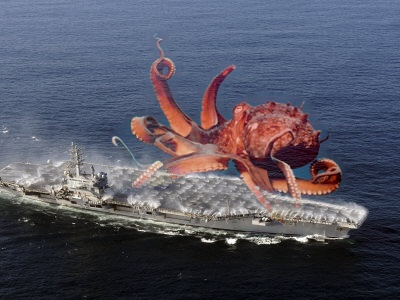
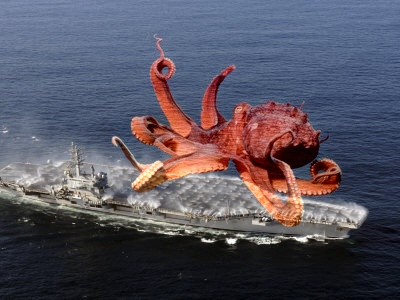
transparent working

diff --git a/project/imblend.m b/project/imblend.m
@@ -41,7 +41,26 @@ for y = 1:imh
                     boundary_t = assignIJV(e, mapping(y+1,x), -1, target(y+1,x,ch), boundary_t, ch);
                     boundary_t = assignIJV(e, mapping(y-1,x), -1, target(y-1,x,ch), boundary_t, ch);
                     if transparent
-                        b(e,ch) = 4*max(source(y,x,ch),target(y,x,ch)) - max(source(y,x+1,ch),target(y,x+1,ch)) - max(source(y,x-1,ch),target(y,x-1,ch)) - max(source(y+1,x,ch),target(y+1,x,ch)) - max(source(y-1,x,ch),target(y-1,x,ch));
+                        if abs(source(y,x,ch)-source(y,x+1,ch)) > abs(target(y,x,ch)-target(y,x+1,ch))
+                            b(e,ch) = b(e,ch) + source(y,x,ch) - source(y,x+1,ch);
+                        else
+                            b(e,ch) = b(e,ch) + target(y,x,ch) - target(y,x+1,ch);
+                        end
+                        if abs(source(y,x,ch)-source(y,x-1,ch)) > abs(target(y,x,ch)-target(y,x-1,ch))
+                            b(e,ch) = b(e,ch) + source(y,x,ch) - source(y,x-1,ch);
+                        else
+                            b(e,ch) = b(e,ch) + target(y,x,ch) - target(y,x-1,ch);
+                        end
+                        if abs(source(y,x,ch)-source(y+1,x,ch)) > abs(target(y,x,ch)-target(y+1,x,ch))
+                            b(e,ch) = b(e,ch) + source(y,x,ch) - source(y+1,x,ch);
+                        else
+                            b(e,ch) = b(e,ch) + target(y,x,ch) - target(y+1,x,ch);
+                        end
+                        if abs(source(y,x,ch)-source(y-1,x,ch)) > abs(target(y,x,ch)-target(y-1,x,ch))
+                            b(e,ch) = b(e,ch) + source(y,x,ch) - source(y-1,x,ch);
+                        else
+                            b(e,ch) = b(e,ch) + target(y,x,ch) - target(y-1,x,ch);
+                        end
                     else
                         b(e,ch) = 4*source(y,x,ch) - source(y,x+1,ch) - source(y,x-1,ch) - source(y+1,x,ch) - source(y-1,x,ch);
                     end
@@ -52,7 +71,16 @@ for y = 1:imh
                     boundary_t = assignIJV(e, mapping(y,x+1), -1, target(y,x+1,ch), boundary_t, ch);
                     boundary_t = assignIJV(e, mapping(y,x-1), -1, target(y,x-1,ch), boundary_t, ch);
                     if transparent
-                        b(e,ch) = 2*max(source(y,x,ch),target(y,x,ch)) - max(source(y,x+1,ch),target(y,x+1,ch)) - max(source(y,x-1,ch),target(y,x-1,ch));
+                        if abs(source(y,x,ch)-source(y,x+1,ch)) > abs(target(y,x,ch)-target(y,x+1,ch))
+                            b(e,ch) = b(e,ch) + source(y,x,ch) - source(y,x+1,ch);
+                        else
+                            b(e,ch) = b(e,ch) + target(y,x,ch) - target(y,x+1,ch);
+                        end
+                        if abs(source(y,x,ch)-source(y,x-1,ch)) > abs(target(y,x,ch)-target(y,x-1,ch))
+                            b(e,ch) = b(e,ch) + source(y,x,ch) - source(y,x-1,ch);
+                        else
+                            b(e,ch) = b(e,ch) + target(y,x,ch) - target(y,x-1,ch);
+                        end
                     else
                         b(e,ch) = 2*source(y,x,ch) - source(y,x+1,ch) - source(y,x-1,ch);
                     end
@@ -63,7 +91,16 @@ for y = 1:imh
                     boundary_t = assignIJV(e, mapping(y+1,x), -1, target(y+1,x,ch), boundary_t, ch);
                     boundary_t = assignIJV(e, mapping(y-1,x), -1, target(y-1,x,ch), boundary_t, ch);
                     if transparent
-                        b(e,ch) = 2*max(source(y,x,ch),target(y,x,ch)) - max(source(y+1,x,ch),target(y+1,x,ch)) - max(source(y-1,x,ch),target(y-1,x,ch));
+                        if abs(source(y,x,ch)-source(y+1,x,ch)) > abs(target(y,x,ch)-target(y+1,x,ch))
+                            b(e,ch) = b(e,ch) + source(y,x,ch) - source(y+1,x,ch);
+                        else
+                            b(e,ch) = b(e,ch) + target(y,x,ch) - target(y+1,x,ch);
+                        end
+                        if abs(source(y,x,ch)-source(y-1,x,ch)) > abs(target(y,x,ch)-target(y-1,x,ch))
+                            b(e,ch) = b(e,ch) + source(y,x,ch) - source(y-1,x,ch);
+                        else
+                            b(e,ch) = b(e,ch) + target(y,x,ch) - target(y-1,x,ch);
+                        end
                     else
                         b(e,ch) = 2*source(y,x,ch) - source(y+1,x,ch) - source(y-1,x,ch);
                     end
